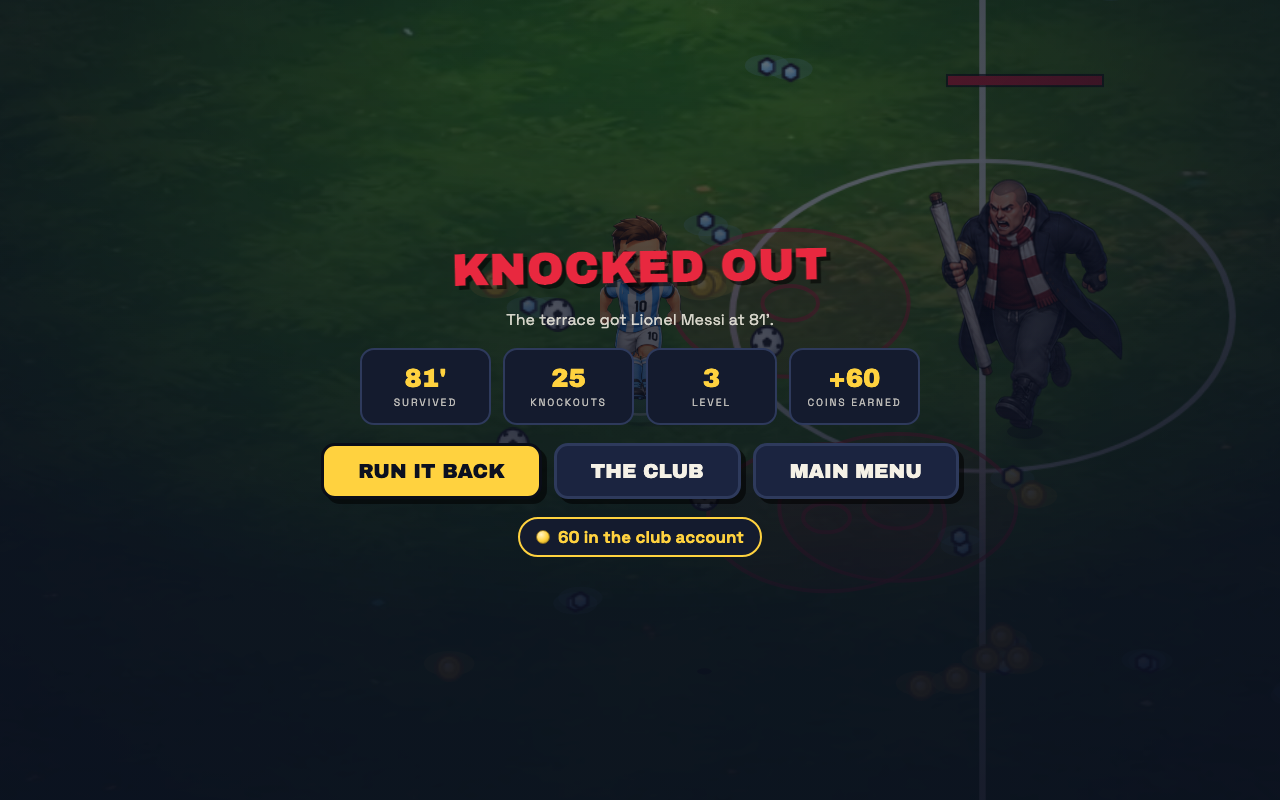
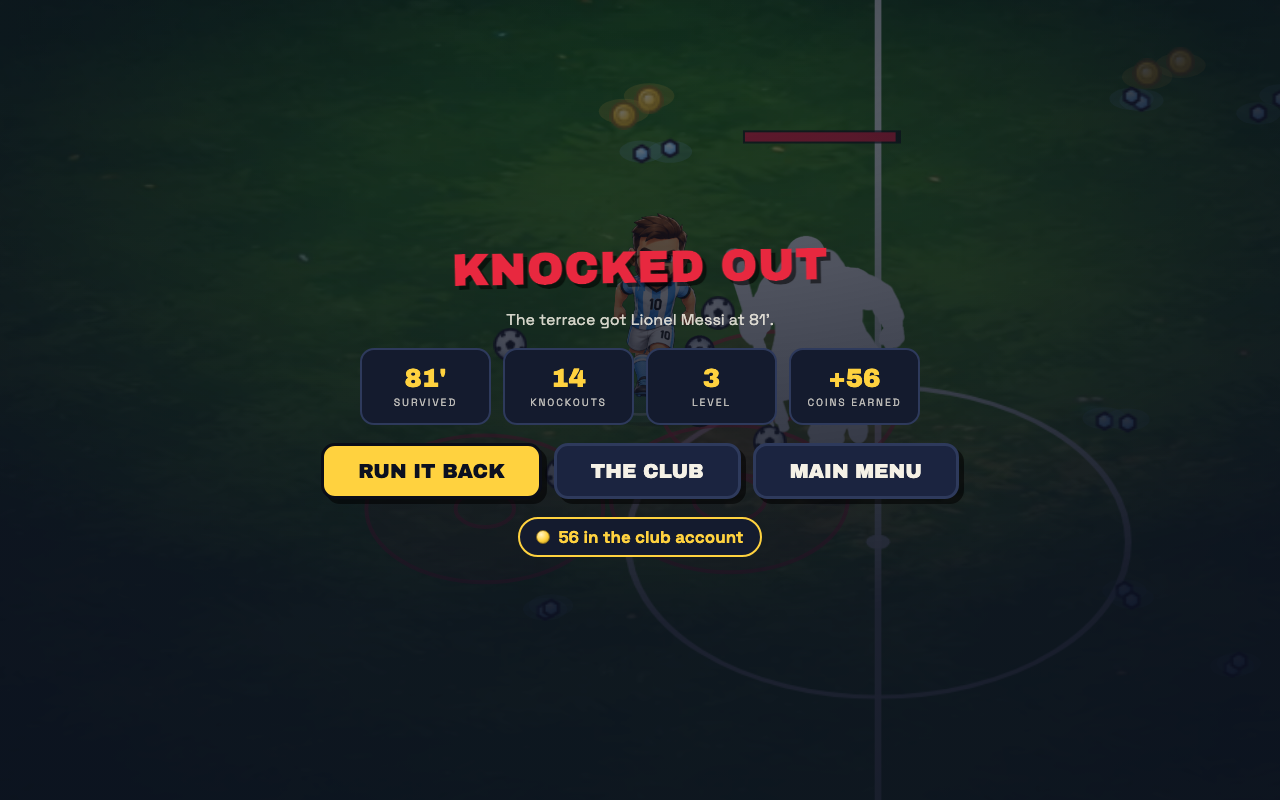
feat: replace leaper support and heavy enemy art

diff --git a/src/game/data.ts b/src/game/data.ts
@@ -292,7 +292,7 @@ export const ENEMIES: Record<Exclude<EnemyId, 'official' | 'captain' | 'drumboss
   },
   flag: {
     id: 'flag', name: 'Flag Bearer', hp: 30, speed: 58, damage: 5, xp: 4,
-    radius: 16, unlockAt: 185, weight: 24, coinChance: 0.26, behavior: 'support', scale: 1,
+    radius: 16, unlockAt: 185, weight: 24, coinChance: 0.26, behavior: 'support', scale: 1.15,
   },
   foam: {
     id: 'foam', name: 'Foam Finger Fan', hp: 55, speed: 44, damage: 13, xp: 3,
